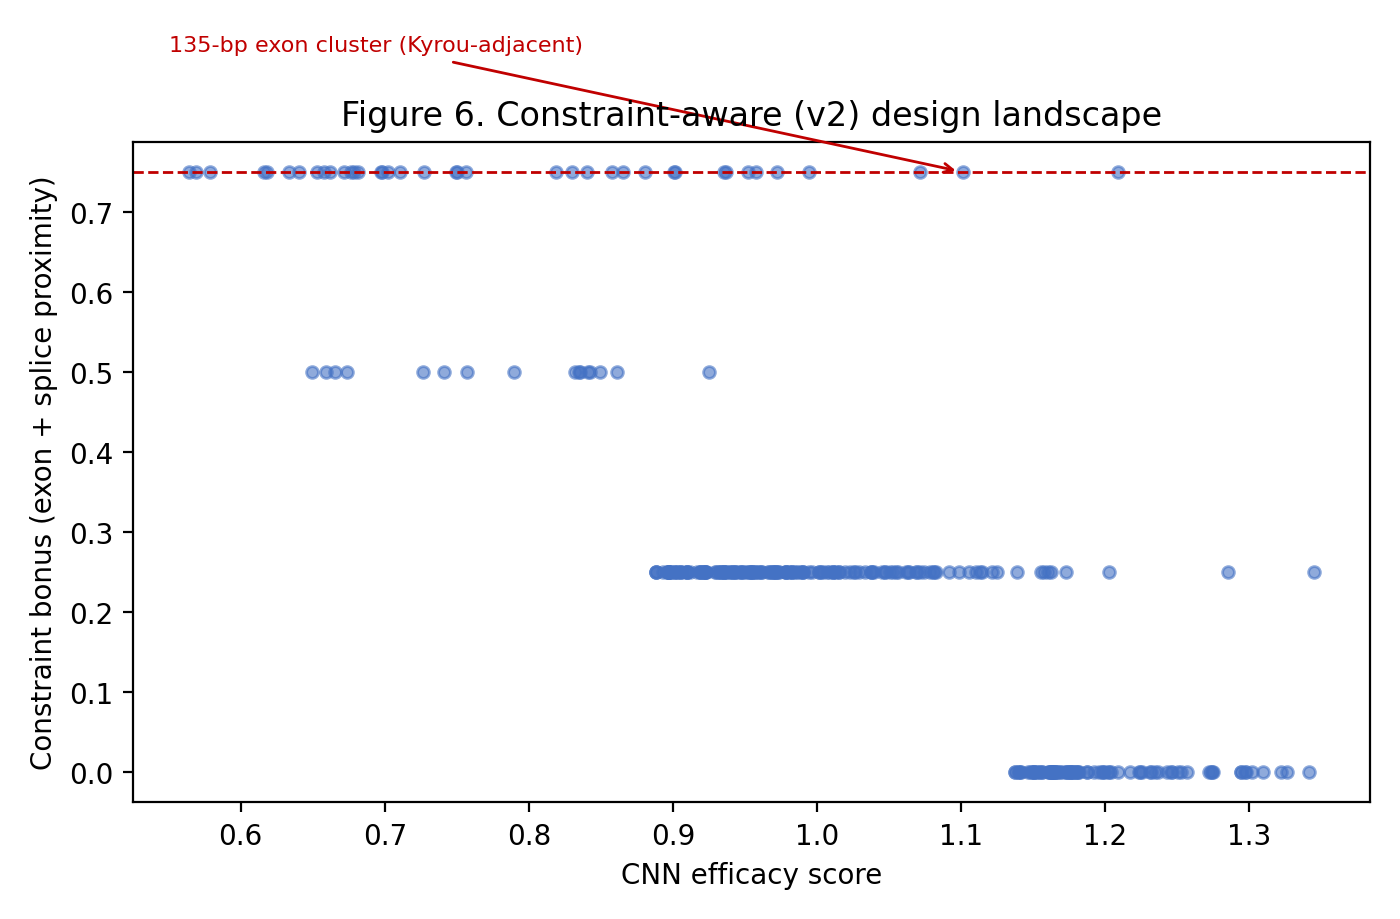
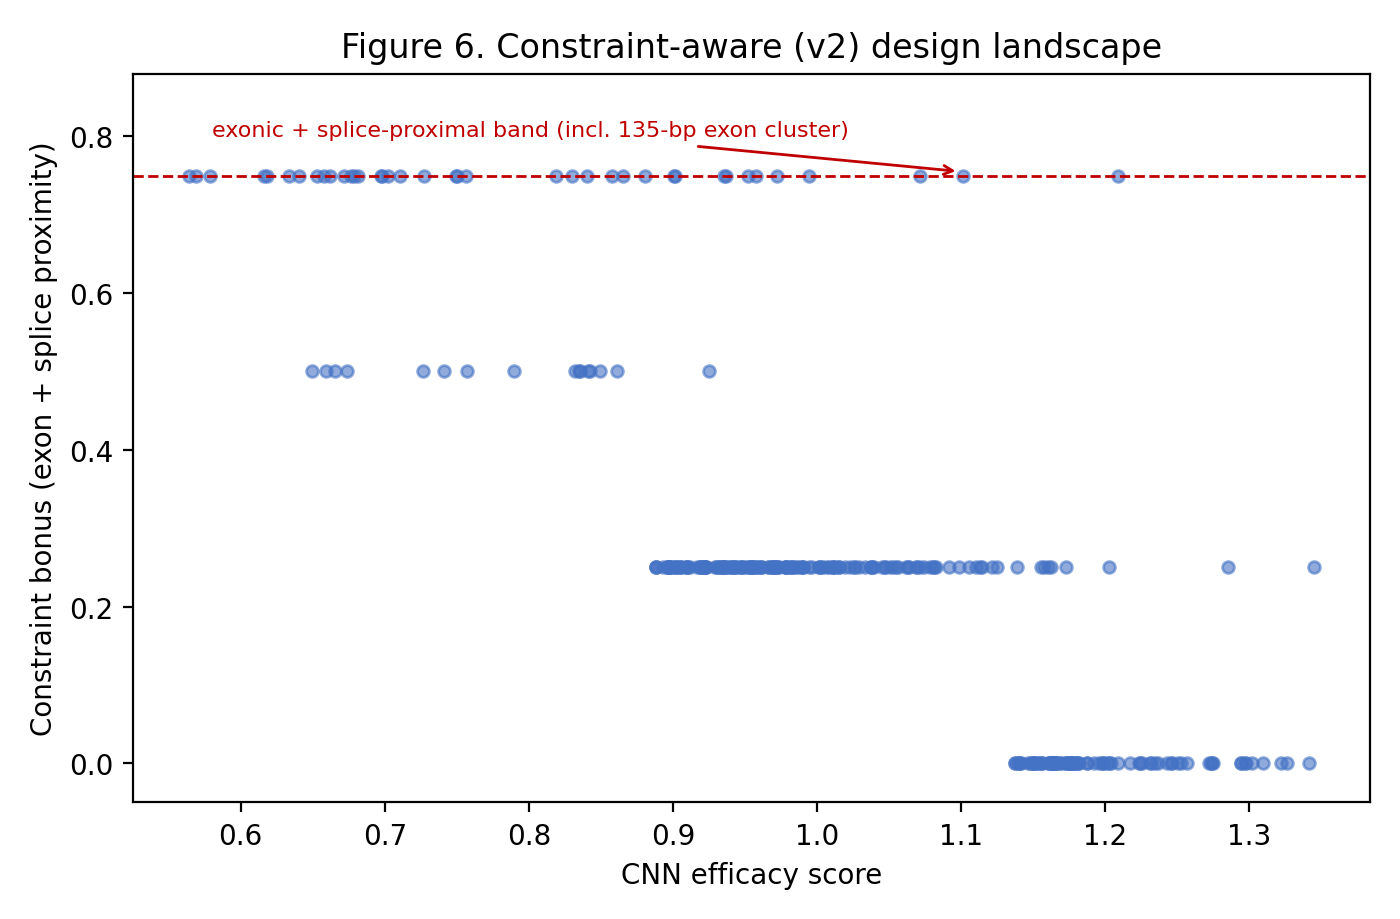
fig6 annotation placement fixed; paper PDF rebuilt with v2 section

diff --git a/mosqdesign/make_figures.py b/mosqdesign/make_figures.py
@@ -127,7 +127,8 @@ def make_fig6() -> str:
     ax.set_ylabel("Constraint bonus (exon + splice proximity)")
     ax.set_title("Figure 6. Constraint-aware (v2) design landscape")
     ax.axhline(0.75, color="#C00000", ls="--", lw=1)
-    ax.annotate("135-bp exon cluster (Kyrou-adjacent)", xy=(1.10, 0.75), xytext=(0.55, 0.9),
+    ax.set_ylim(-0.05, 0.88)
+    ax.annotate("exonic + splice-proximal band (incl. 135-bp exon cluster)", xy=(1.10, 0.755), xytext=(0.58, 0.80),
                 arrowprops=dict(arrowstyle="->", color="#C00000"), fontsize=8, color="#C00000")
     fig.tight_layout()
     p = os.path.join(FIGURES, "fig6_constraint_landscape.png")
